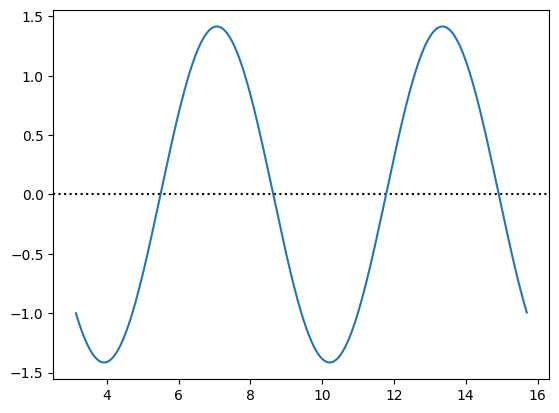
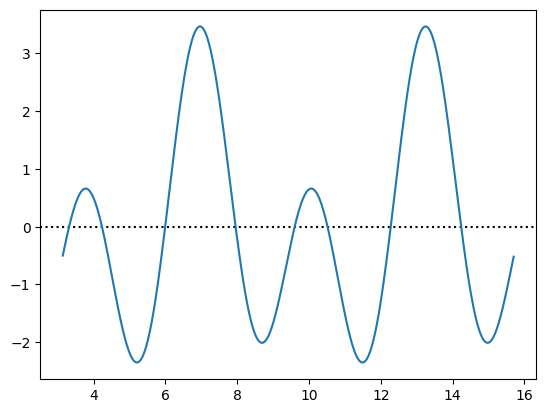
added shift and fixed cos/sin def

diff --git a/src/client/index.js b/src/client/index.js
@@ -1,6 +1,6 @@
 const GET_WAVE_IMAGE  ="http://127.0.0.1:8000/Get_Wave_With";
 
-function Add (Element, Child_List) {
+function AddChildsNode (Element, Child_List) {
 
     Child_List.forEach(C => {
         Element.appendChild (C)
@@ -9,20 +9,38 @@ function Add (Element, Child_List) {
     return Element;
 }
 
+function getAncestor (element, level) {
+
+    if (level == 1) {
+        return element.parentElement;
+    }
+
+    return getAncestor (element.parentElement, level-1);
+}
+
 async function UpdateResult () {
 
     json_file = {
         amplitudes : [],
+        shifts : [],
         functions : []
     }
 
     Input_List = document.querySelectorAll ("input");
-    //Input_List = Object.values(Input_List).filter ((i => {i.parentElement.parentElement.id != "Filters"}));
 
     Input_List.forEach(input => {
 
-        (json_file.amplitudes).push (input.value);
-        (json_file.functions).push (input.parentElement.parentElement.id.slice (0, 3));
+        let class_name = input.className;
+        let variable_value = input.value;
+
+        if (class_name == "amplitude") {
+            (json_file.amplitudes).push (variable_value);
+            (json_file.functions).push (getAncestor(input, 3).id.slice (0, 3));
+
+        } else if (class_name = "shift") {
+            (json_file.shifts).push (variable_value);
+        }
+
     });
 
     Req = {
@@ -41,31 +59,45 @@ async function UpdateResult () {
                                                             "result.png")));
 }
 
+function AddVariable (Text, Default_Value) {
+
+    divVar = document.createElement ("div");
+    divVar.setAttribute ("class", "variable_set");
+
+    p = document.createElement ("p");
+    p.innerHTML = Text + " :";
+
+    input = document.createElement ("input");
+    input.setAttribute ("value", Default_Value);
+    input.setAttribute ("class", Text);
+    input.onchange = UpdateResult;
+
+    return AddChildsNode (divVar, [p, input]);
+
+}
+
 function CreateFunction (type, img_data) {
 
-    div = document.createElement ("div");
-    div.setAttribute ("class", "SimpleFunc")
+    divFunc = document.createElement ("div");
+    divFunc.setAttribute ("class", "SimpleFunc")
 
     img = document.createElement ("img");
     img.setAttribute ("src", URL.createObjectURL (new File ([img_data.value],
                                                             "wave.png")));
     img.setAttribute ("class", "Wave_Img");
 
-    p = document.createElement ("p");
-    p.innerHTML = "Amplitude : ";
+    amp = AddVariable ("amplitude", "1.0");
+    phi = AddVariable ("shift", "0.0");
 
-    input = document.createElement ("input");
-    input.setAttribute ("value", "1.0");
-    input.onchange = UpdateResult;
-
-    return Add (div, [img, p, input]);
+    return AddChildsNode (divFunc, [img, amp, phi]);
 }
 
 async function AddDefault (type) {
 
     json_file = {
         amplitudes : [1.0],
-        functions : [type]
+        shifts     : [0.0],
+        functions  : [type]
     }
 
     Req = {

diff --git a/src/server/core/waves.py b/src/server/core/waves.py
@@ -2,25 +2,47 @@ from typing import List
 
 import numpy as np
 
+import maths.constants as M_C
+
 from .object import Base_Object
 
 class Waves (Base_Object) :
 
-    def __init__ (self, Amplitude : List[float], Function : List[str]) :
+    def __init__ (self, Amplitude : List[float], Shift : List[float],
+                  Function : List[str], T : float) :
+
         self.__Amplitude = Amplitude
+        self.__Shift = Shift
         self.__Base_Func = Function
+        self.__Period = T
 
 
-    def Get_Value (self, t : float) -> any:
+    def Get_Value (self, x : float) -> any:
 
         epsilon = 1E-3
         Func_Value = 0.0
+        cos_i, sin_i, n = 0.0, 0.0, 0.0
         for I in range (0, len (self.__Amplitude)):
 
-            Elementary_Val = (np.cos (t) if self.__Base_Func [I] == "Cos"
-                                         else np.sin(t))
+            Ai = self.__Amplitude [I]
+            Phi_i = self.__Shift [I]
+            f_i = self.__Base_Func [I]
+            xi = 0.0
 
-            Func_Value += self.__Amplitude [I] * Elementary_Val
+            if f_i == "Cos":
+                cos_i += 1
+                n = cos_i
+
+            else:
+                sin_i += 1
+                n = sin_i
+
+            xi = n * x * (M_C.TWO_PI / self.__Period)
+
+            Elementary_Val = (np.cos (xi + Phi_i) if f_i == "Cos"
+                                                 else np.sin(xi + Phi_i))
+
+            Func_Value += Ai * Elementary_Val
 
         if abs (Func_Value) < epsilon:
             return 0.00

diff --git a/src/server/app.py b/src/server/app.py
@@ -6,11 +6,14 @@ from typing import List, Union
 
 import core.waves as C_W
 import core.image_generator as C_IG
+import maths.constants as M_C
 
 class FunctionJSON (BaseModel):
 
     amplitudes  : Union [List[float], None] = []
+    shifts      : Union [List[float], None] = []
     functions   : Union [List[str], None] = []
+    T           : float = M_C.TWO_PI
 
 
 visitor = C_IG.ImageGenerator ()
@@ -21,7 +24,7 @@ app.add_middleware (CORSMiddleware, allow_origins='*', allow_methods=["POST"])
 @app.post ("/Get_Wave_With")
 def Generate_Wave_Image (item : FunctionJSON):
 
-    wave = C_W.Waves (item.amplitudes, item.functions)
+    wave = C_W.Waves (item.amplitudes, item.shifts, item.functions, item.T)
     wave.Generate_Image (visitor)
 
     return responses.FileResponse ("imgs/wave_img.png")
